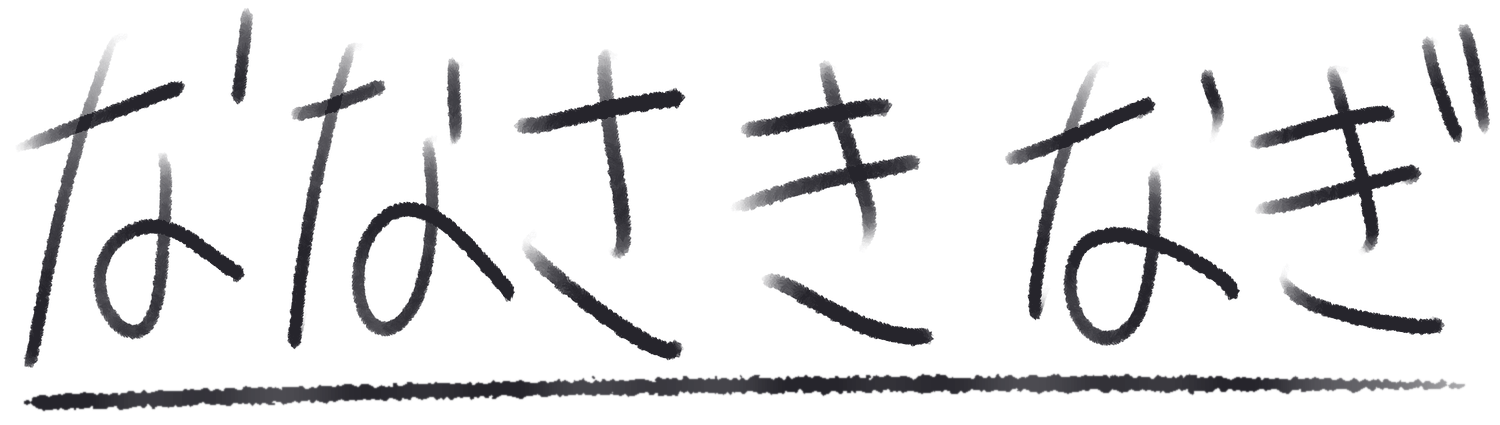
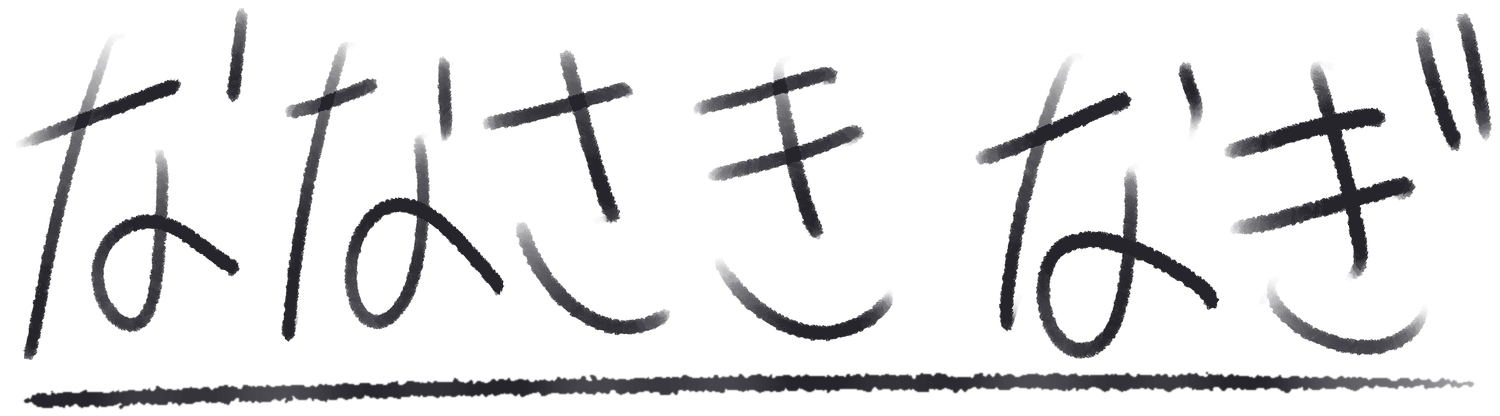
七咲：手書きの名前を描き直したものに差し替え

diff --git a/members/nanasaki/js/member-data.js b/members/nanasaki/js/member-data.js
@@ -22,7 +22,7 @@ const MEMBER = {
 
 const HAND_NAME = {
   src: "images/name-hand.webp",
-  box: [15, 505, 1905, 540],
+  box: [15, 505, 1945, 540],
   breaks: { 4: 80, 8: 80, 11: 80, 15: 80, 19: 80, 25: 260 },
   strokes: [
     "M37 692L55 687L73 680L90 674L108 668L124 659L142 653L160 647L177 640L195 633L212 626L230 620L247 612",
@@ -33,24 +33,24 @@ const HAND_NAME = {
     "M465 562L456 578L451 596L445 614L443 632L435 649L431 667L428 685L423 703L419 721L415 739L412 758L409 776L406 794L403 813L400 831L398 850L395 868L394 886L392 905L390 923L389 942",
     "M591 582L590 602L591 622L592 642L593 662L592 682",
     "M559 682L560 700L561 718L563 736L563 754L563 773L564 791L561 808L559 826L556 844L551 862L546 879L538 895L527 910L512 920L494 919L481 907L474 890L470 873L470 855L472 837L477 819L485 803L496 788L510 777L527 772L545 773L562 779L578 788L592 800L605 812L618 825L630 839L642 852L653 866L665 880",
-    "M672 665L691 664L711 661L729 656L748 652L768 648L786 643L805 640L825 637L844 633L863 631L882 627",
-    "M782 570L782 589L783 608L785 627L787 645L789 664L791 683L794 702L797 720L800 739L802 758L804 777L806 795L805 814L795 830",
-    "M682 807L689 824L702 839L716 852L730 865L745 876L760 889L776 900L791 911L807 922L823 932L840 942L858 949L877 950",
-    "M957 670L976 668L995 665L1014 661L1033 657L1052 653L1071 649L1090 648L1109 643L1128 641L1147 639",
-    "M947 767L965 763L983 757L1000 751L1018 746L1036 741L1054 737L1073 732L1091 728L1109 724L1127 721L1145 717L1164 713L1182 710",
-    "M1062 585L1066 604L1071 622L1076 640L1083 658L1088 676L1093 694L1099 712L1104 730L1111 748L1116 766L1118 785L1116 804L1112 822",
-    "M985 860L1004 864L1021 872L1038 881L1055 891L1072 899L1089 908L1106 916L1124 923L1143 928L1162 931L1181 932L1200 934",
-    "M1294 707L1312 703L1329 697L1346 691L1363 685L1378 675L1396 670L1412 663L1429 655L1446 649L1463 643L1480 637",
-    "M1415 585L1402 599L1394 616L1387 633L1381 651L1377 669L1368 686L1364 704L1359 722L1354 740L1349 758L1345 777L1341 795L1338 814L1335 832L1332 851L1330 869L1330 888L1330 907",
-    "M1547 596L1551 616L1558 636L1560 657L1555 677",
-    "M1481 720L1481 738L1481 756L1481 775L1480 793L1479 811L1478 829L1475 847L1472 865L1467 883L1462 900L1452 916L1439 928L1422 934L1404 930L1391 918L1382 902L1376 884L1374 866L1375 848L1381 831L1392 816L1407 807L1425 804L1444 803L1461 807L1479 813L1496 819L1513 826L1529 835L1545 844L1560 854L1573 866L1585 880",
-    "M1605 687L1623 683L1641 679L1659 674L1676 668L1694 663L1712 659L1730 655L1748 652L1767 649L1785 651",
-    "M1610 772L1629 768L1648 765L1667 760L1685 755L1704 751L1723 746L1741 740L1760 735L1779 730L1798 726L1817 725",
-    "M1707 592L1710 610L1716 628L1721 646L1727 663L1731 681L1736 699L1741 717L1745 735L1749 753L1753 771L1756 789L1756 807L1750 825",
-    "M1645 852L1651 869L1665 882L1682 891L1699 897L1717 903L1735 908L1754 911L1772 914L1791 916L1810 919L1828 919L1847 920",
-    "M1827 555L1830 573L1835 592L1840 609L1846 627L1852 645L1858 662L1865 680",
-    "M1875 537L1879 556L1883 575L1887 594L1891 613L1894 632L1897 651L1900 670",
-    "M45 1016L82 1015L118 1014L155 1013L191 1012L228 1010L265 1009L301 1008L338 1007L375 1006L411 1005L448 1004L484 1003L521 1002L558 1001L594 1000L631 1000L667 999L704 998L741 997L777 997L814 996L850 996L887 995L924 994L960 994L997 994L1034 993L1070 993L1107 993L1143 992L1180 992L1217 992L1253 992L1290 992L1326 992L1363 992L1400 992L1436 992L1473 992L1509 992L1546 992L1583 992L1619 992L1656 993L1693 993L1729 993L1766 993L1802 994L1839 994L1875 994"
+    "M645 665L664 662L683 658L702 654L720 649L739 644L758 640L776 634L794 629L813 624L832 622",
+    "M750 575L753 593L758 611L762 628L766 646L771 663L776 681L781 698L786 716L791 734L796 751L802 768L809 785",
+    "M692 800L697 818L704 834L713 850L723 866L734 880L747 894L761 905L776 916L793 923L810 928L829 929L847 927L864 921L880 912",
+    "M917 645L935 642L953 637L971 633L990 629L1007 623L1025 619L1043 612L1061 607L1079 603L1097 600",
+    "M937 732L955 729L973 725L991 720L1009 716L1027 711L1045 705L1062 700L1080 694L1097 686L1114 680L1132 675",
+    "M1025 582L1025 600L1027 618L1029 636L1032 654L1035 671L1039 689L1043 707L1046 725L1051 742L1056 759L1062 777L1068 794L1075 810",
+    "M947 845L956 861L968 875L980 889L994 901L1008 912L1024 922L1041 929L1058 934L1077 936L1095 936L1113 931L1130 925L1145 915L1159 903L1170 888",
+    "M1282 710L1301 706L1319 700L1337 693L1355 686L1372 676L1390 670L1408 662L1425 654L1443 646L1461 640L1480 636",
+    "M1412 577L1399 590L1390 607L1384 624L1377 642L1372 660L1368 677L1359 693L1356 712L1351 730L1347 748L1341 766L1338 784L1334 802L1331 821L1327 839L1325 858L1322 876L1320 895L1321 913L1322 932",
+    "M1551 587L1554 606L1560 624L1565 642L1564 661L1560 680",
+    "M1481 725L1481 743L1481 761L1481 779L1480 797L1479 815L1479 833L1476 851L1474 869L1471 887L1466 905L1461 922L1452 938L1440 951L1424 958L1406 957L1391 947L1380 933L1373 916L1369 899L1367 881L1370 863L1375 846L1386 831L1401 821L1419 817L1437 816L1454 819L1472 823L1488 830L1505 837L1522 845L1537 854L1553 864L1567 874L1580 887L1592 900",
+    "M1605 702L1624 698L1642 693L1661 688L1679 682L1697 677L1716 672L1734 668L1753 663L1772 659L1791 657L1810 656",
+    "M1612 800L1631 799L1649 796L1667 792L1685 786L1703 782L1721 777L1739 772L1756 767L1774 762L1792 757L1810 751L1829 749L1847 747",
+    "M1722 590L1725 608L1730 626L1735 644L1740 662L1745 680L1750 698L1755 716L1759 734L1764 752L1767 771L1771 789L1775 807L1778 826L1778 844L1772 862",
+    "M1662 870L1665 888L1674 905L1687 918L1701 930L1717 939L1735 946L1752 952L1771 954L1789 955L1808 953L1825 947L1841 937L1854 923L1862 907",
+    "M1857 547L1862 566L1866 585L1872 604L1877 623L1883 641L1889 660L1896 678L1902 697",
+    "M1910 525L1917 544L1920 563L1925 582L1929 602L1932 621L1935 641L1938 661L1942 680",
+    "M45 1024L83 1023L120 1022L158 1021L195 1020L233 1018L271 1017L308 1016L346 1015L384 1014L421 1013L459 1012L496 1011L534 1010L572 1009L609 1008L647 1008L684 1007L722 1006L760 1005L797 1005L835 1004L872 1004L910 1003L948 1002L985 1002L1023 1002L1061 1001L1098 1001L1136 1001L1173 1000L1211 1000L1249 1000L1286 1000L1324 1000L1361 1000L1399 1000L1437 1000L1474 1000L1512 1000L1550 1000L1587 1000L1625 1000L1662 1000L1700 1001L1738 1001L1775 1001L1813 1001L1850 1002L1888 1002L1925 1002"
   ]
 };
 
